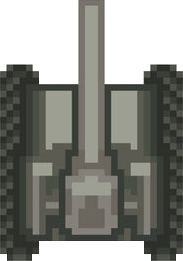
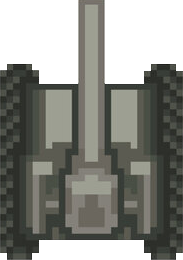
sprite adjustments (#10)
- randomized car colors
- fixed white edges on tank
- changed bullets to be yellow

diff --git a/core/src/com/mygdx/game/objects/EnemyCar.java b/core/src/com/mygdx/game/objects/EnemyCar.java
@@ -6,6 +6,11 @@ import com.mygdx.game.helper.BodyHelper;
 import com.mygdx.game.helper.ContactType;
 
 public class EnemyCar extends Car {
+    private static Texture[] textures = {
+            new Texture("redCar.png"),
+            new Texture("greenCar.png"),
+            new Texture("blueCar.png"),
+    };
     private float descentSpeed;
 
     public EnemyCar(float x, float y, PlayScreen playScreen) {
@@ -14,7 +19,7 @@ public class EnemyCar extends Car {
 
     public EnemyCar(float x, float y, float descentSpeed, PlayScreen playScreen) {
         super(x, y, playScreen);
-        this.texture = new Texture("car.png");
+        this.texture = this.textures[(int)(Math.random() * 3)];
 
         float ratio = 0.075f;
         this.width = (int)(texture.getWidth() * ratio);
@@ -39,7 +44,6 @@ public class EnemyCar extends Car {
     public void dispose() {
         playScreen.getWorld().destroyBody(body);
         playScreen.getEnemyCarList().removeValue(this, true);
-        texture.dispose();
     }
 
     public Texture getTexture() {

diff --git a/core/src/com/mygdx/game/objects/PlayerCar.java b/core/src/com/mygdx/game/objects/PlayerCar.java
@@ -16,7 +16,7 @@ public class PlayerCar extends Car {
 
     public PlayerCar(float x, float y, PlayScreen playScreen) {
         super(x, y, playScreen);
-        float ratio = 0.3f;
+        float ratio = 0.35f;
         this.texture = new Texture("tank.png");
         this.width = (int) (texture.getWidth() * ratio);
         this.height = (int) (texture.getHeight() * ratio);

diff --git a/core/src/com/mygdx/game/objects/Bullet.java b/core/src/com/mygdx/game/objects/Bullet.java
@@ -29,7 +29,7 @@ public class Bullet {
     private Body body;
     private float x, y, speedY;
     public static final int width = 6, height = 20;
-    private Texture texture = new Texture("white.png");
+    private Texture texture = new Texture("yellow.png");
     private PlayScreen playScreen;
     private BulletUserData userData;
 
